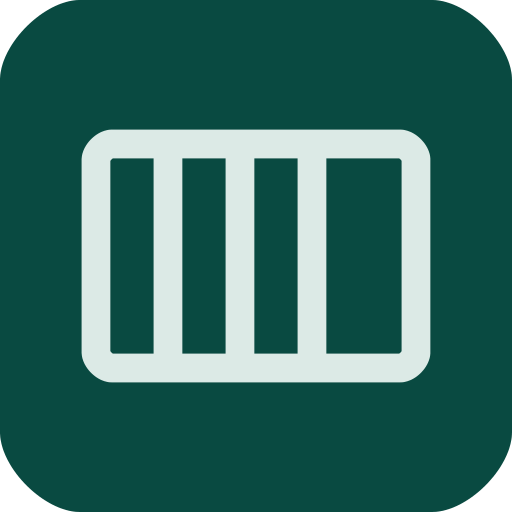
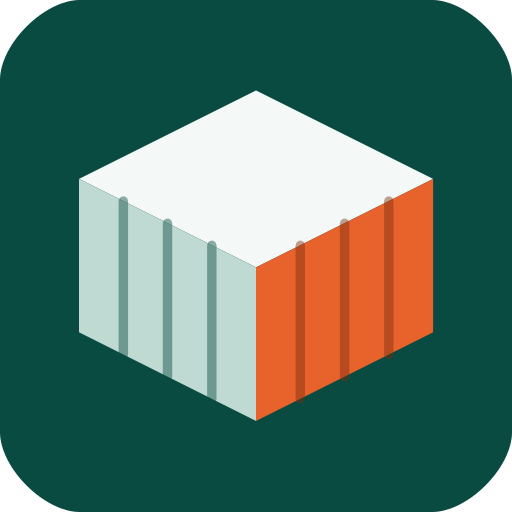
İkonu yenile: izometrik konteyner, üç düzlem + turuncu kargo yüzü
Eski ikon (düz dikdörtgen + oluk çizgileri) küçük boyutta jenerik bir kutu
gibi okunuyordu. Yeni ikon ürünün asıl hikâyesini anlatıyor — 3D yerleşim:
- İzometrik konteyner; üst/sol/sağ düzlemler farklı tonda, 48px'te bile
  siluet ve derinlik okunuyor
- Sağ yüz turuncu (#E8622C), uygulamadaki kargo bloğu rengiyle aynı;
  koyu teal zeminde güçlü kontrast
- Glif karonun %59'undan %69'una büyütüldü (ilk denemede tile içinde
  küçük kalıyordu, launcher ikonu dolgun durmalı)

Tek kaynak src/app/icon.svg; ondan üretildi: PWA ikonları, android
mipmap-* legacy + adaptive foreground, mağaza öne çıkan görseli
(artık icon-512.png'yi basıyor, kopya çizim yok), Logo.tsx amblemi ve
PDF antet amblemi (jsPDF vektör primitifleriyle, quad() yardımcısı).

Doğrulandı: 48/72/96/144px önizleme + PDF anteti render edilip kontrol edildi.

diff --git a/src/components/pdfReport.ts b/src/components/pdfReport.ts
@@ -33,6 +33,10 @@ const C_INK: [number, number, number] = [19, 26, 24];
 const C_INK_2: [number, number, number] = [90, 99, 96];
 const C_RULE: [number, number, number] = [178, 186, 181];
 const C_STAMP: [number, number, number] = [158, 59, 46];
+/** İkon düzlemleri — src/app/icon.svg ile aynı. */
+const C_ICON_TOP: [number, number, number] = [244, 248, 246];
+const C_ICON_LEFT: [number, number, number] = [191, 217, 211];
+const C_ICON_RIGHT: [number, number, number] = [232, 98, 44];
 
 interface ReportItem {
   label: string;
@@ -115,15 +119,26 @@ function drawElevation(
  */
 function drawLogoMark(doc: jsPDF, x: number, y: number, size: number) {
   const k = size / 32; // icon.svg 32x32 tuvalinden mm'ye
+  const P = (px: number, py: number): [number, number] => [x + px * k, y + py * k];
+
+  /** Dört köşeli düzlemi dolgu olarak çizer (jsPDF `lines` göreli delta ister). */
+  const quad = (pts: Array<[number, number]>, fill: [number, number, number]) => {
+    const [p0, ...rest] = pts;
+    const deltas = rest.map((p, i) => {
+      const prev = i === 0 ? p0 : rest[i - 1];
+      return [p[0] - prev[0], p[1] - prev[1]];
+    });
+    doc.setFillColor(...fill);
+    doc.lines(deltas, p0[0], p0[1], [1, 1], 'F', true);
+  };
+
   doc.setFillColor(...C_ACCENT);
   doc.roundedRect(x, y, size, size, 5 * k, 5 * k, 'F');
 
-  doc.setDrawColor(...C_ACCENT_SOFT);
-  doc.setLineWidth(1.8 * k);
-  doc.roundedRect(x + 6 * k, y + 9 * k, 20 * k, 14 * k, 1 * k, 1 * k, 'S');
-  for (const gx of [10.5, 15, 19.5]) {
-    doc.line(x + gx * k, y + 9 * k, x + gx * k, y + 23 * k);
-  }
+  // İzometrik konteyner — ikonla aynı üç düzlem.
+  quad([P(4.94, 11.18), P(16, 5.65), P(27.07, 11.18), P(16, 16.71)], C_ICON_TOP);
+  quad([P(4.94, 11.18), P(16, 16.71), P(16, 26.31), P(4.94, 20.77)], C_ICON_LEFT);
+  quad([P(16, 16.71), P(27.07, 11.18), P(27.07, 20.77), P(16, 26.31)], C_ICON_RIGHT);
 }
 
 export async function buildConsolidationPdf(

diff --git a/src/components/Logo.tsx b/src/components/Logo.tsx
@@ -21,11 +21,20 @@ export default function Logo({ className }: { className?: string }) {
       role="img"
       aria-label="Inspecter"
     >
-      {/* amblem */}
+      {/* amblem — src/app/icon.svg ile aynı geometri, 44px rozete ölçeklenmiş */}
       <rect x="2" y="2" width="44" height="44" rx="6.9" fill="#094A41" />
-      <g fill="none" stroke="#DCEAE6" strokeWidth="2.48">
-        <rect x="10.25" y="14.4" width="27.5" height="19.25" rx="1.4" />
-        <path d="M16.44 14.4v19.25M22.63 14.4v19.25M28.81 14.4v19.25" />
+      <g strokeLinejoin="round">
+        <path d="M8.79 17.37 24 9.77 39.22 17.37 24 24.98Z" fill="#F4F8F6" />
+        <path d="M8.79 17.37 24 24.98 24 38.18 8.79 30.56Z" fill="#BFD9D3" />
+        <path d="M24 24.98 39.22 17.37 39.22 30.56 24 38.18Z" fill="#E8622C" />
+      </g>
+      <g strokeWidth="0.81" strokeLinecap="round" opacity="0.45" fill="none">
+        <g stroke="#094A41">
+          <path d="M12.60 19.27V32.47M16.40 21.18V34.38M20.21 23.08V36.28" />
+        </g>
+        <g stroke="#7A2E10">
+          <path d="M27.81 23.08V36.28M31.62 21.18V34.38M35.41 19.27V32.47" />
+        </g>
       </g>
 
       {/* kelime markası */}
